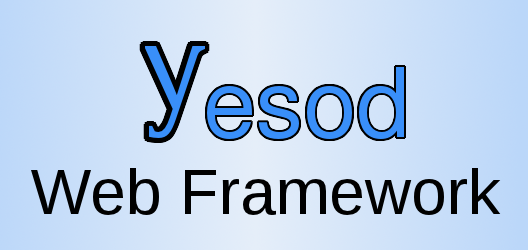
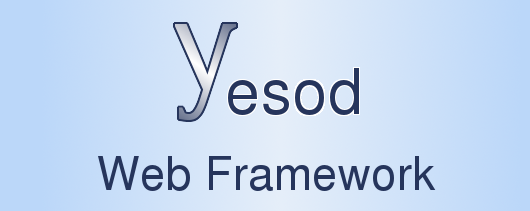
New header

Changed region(s): [[0.0606, 0.654, 0.9697, 0.91], [0.2424, 0.0853, 0.7879, 0.5972]]

diff --git a/static/custom/style.css b/static/custom/style.css
@@ -181,13 +181,16 @@ body.home {
 }
 .home #breadcrumbs {
     background: #bbd7f9 url(header.png) no-repeat center top;
-    height: 250px;
+    height: 211px;
     text-indent: -5000px;
     margin: 0;
 }
 @media (max-width: 500px) {
     .home #breadcrumbs {
         height: 150px;
+    }
+    .home article {
+        padding-left: 5px;
     }
 }
 .home article {
